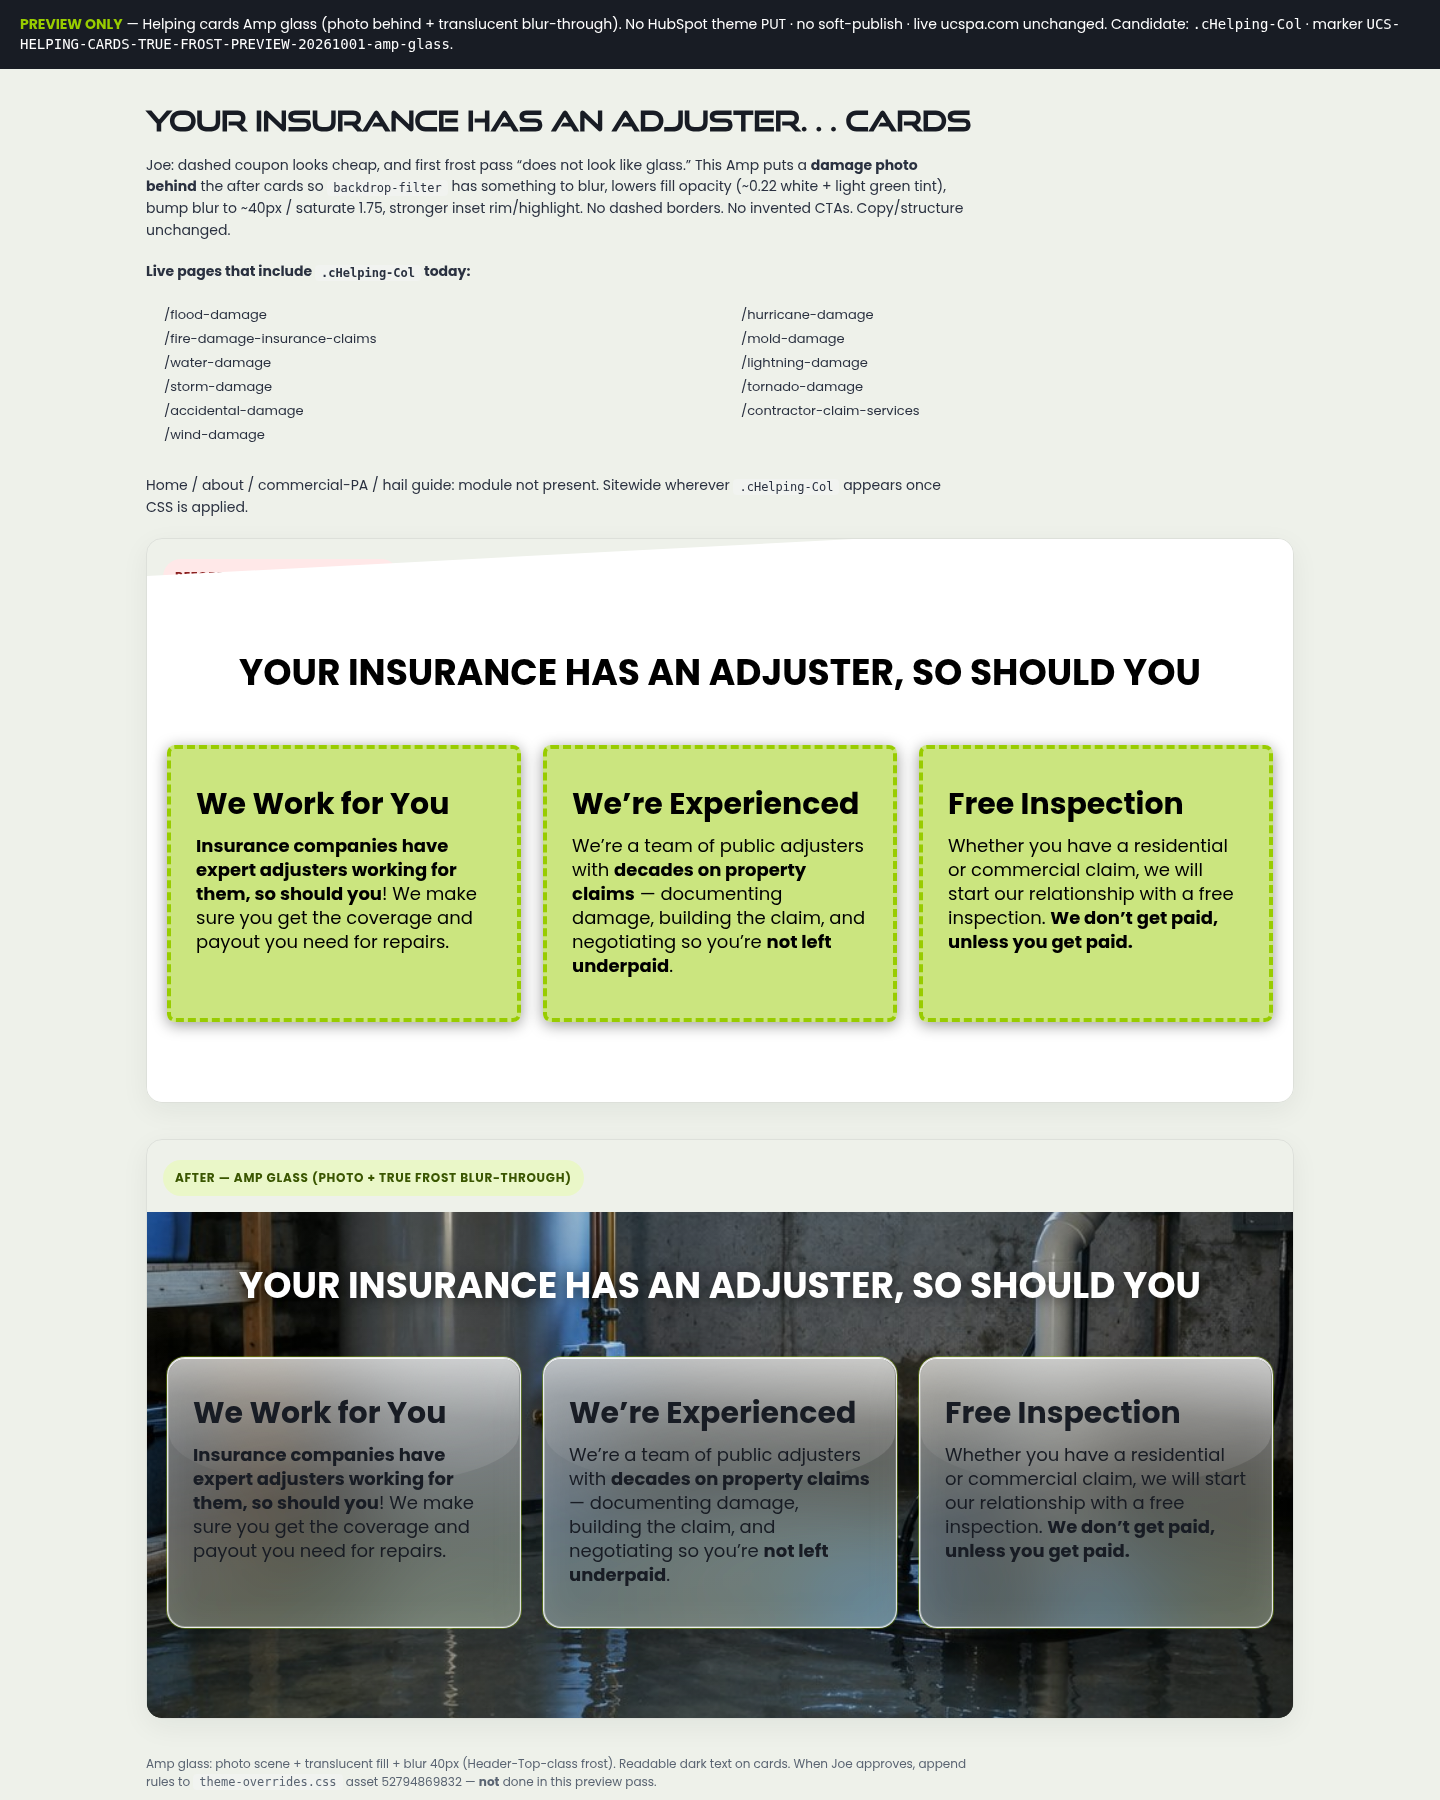
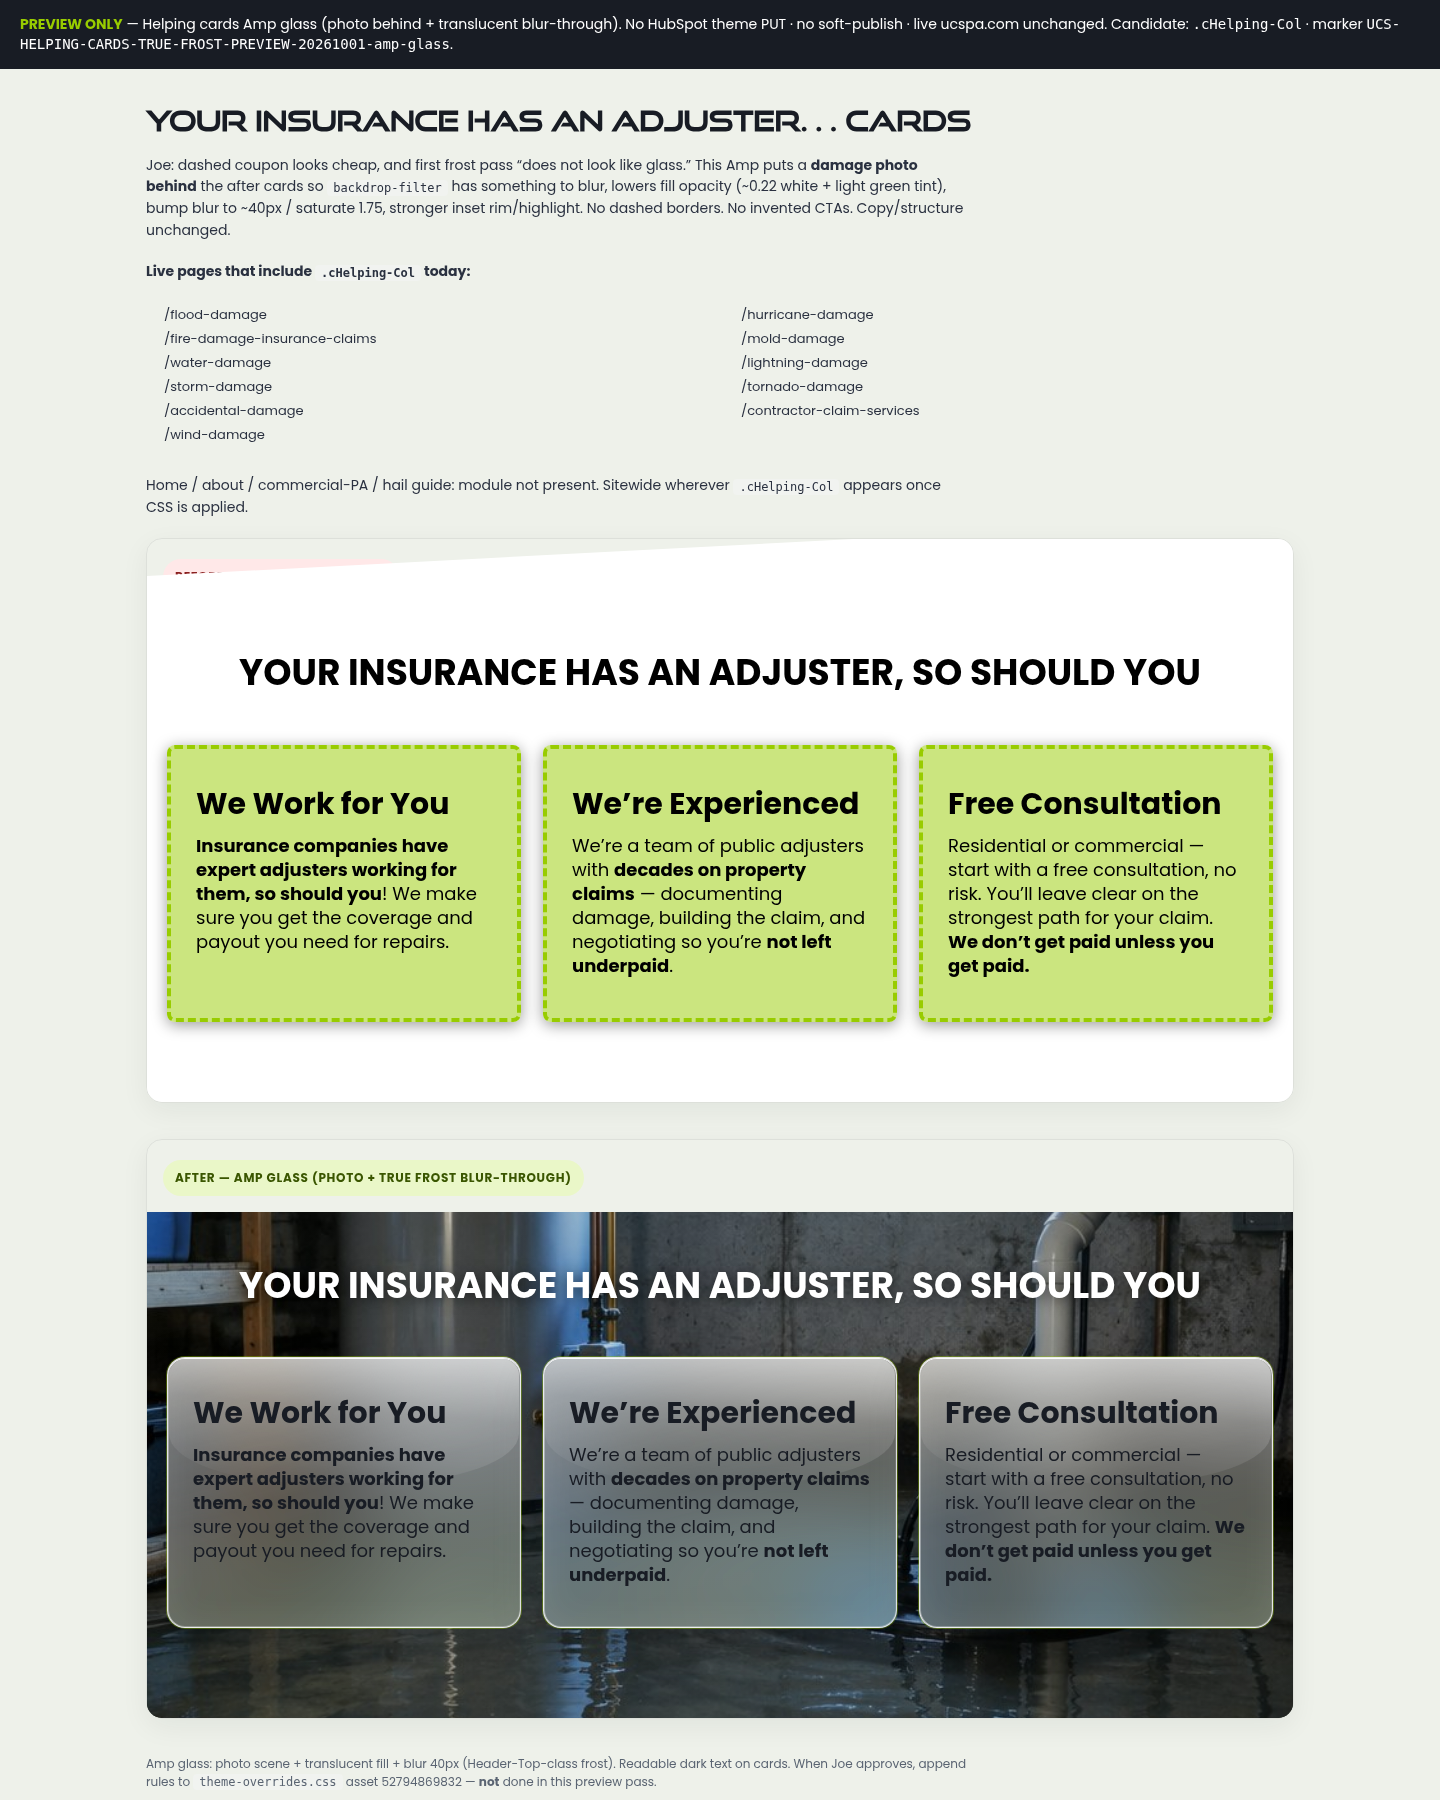
Finalize helping cards preview copy

Changed region(s): [[0.6562, 0.4356, 0.875, 0.56], [0.6562, 0.7778, 0.8438, 0.9022]]

diff --git a/helping-cards-frost/index.html b/helping-cards-frost/index.html
@@ -13,7 +13,7 @@
 <link rel="stylesheet" href="https://7052064.fs1.hubspotusercontent-na1.net/hubfs/7052064/hub_generated/template_assets/DEFAULT_ASSET/1790670504241/template_layout.min.css" />
 <link rel="stylesheet" href="https://www.ucspa.com/hubfs/hub_generated/template_assets/1/52790806616/1790446814380/template_main.min.css" />
 <link rel="stylesheet" href="https://www.ucspa.com/hubfs/hub_generated/template_assets/1/52794869832/1790819786203/template_theme-overrides.min.css" />
-<link rel="stylesheet" href="assets/css/helping-frost.css?v=202610010527-experienced-copy-no-exclaim-amp-glass" />
+<link rel="stylesheet" href="assets/css/helping-frost.css?v=202610010528-free-consultation-no-exclaim-amp-glass" />
 <style>
   body { margin:0; background:#eef1ea; }
   .row-fluid { width:100%; }
@@ -77,9 +77,9 @@
                 </div>
               </div>
               <div class="cHelping-Col">
-                <h3>Free Inspection</h3>
+                <h3>Free Consultation</h3>
                 <div class="cHelping-Col-Text">
-                  <p style="font-size: 18px;"><span>Whether you have a residential or commercial claim, we will start our relationship with a free inspection.&nbsp;</span><strong>We don’t get paid, unless you get paid.</strong></p>
+                  <p style="font-size: 18px;"><span>Residential or commercial — start with a free consultation, no risk. You’ll leave clear on the strongest path for your claim. </span><strong>We don’t get paid unless you get paid.</strong></p>
                 </div>
               </div>
             </div>
@@ -112,9 +112,9 @@
                 </div>
               </div>
               <div class="cHelping-Col">
-                <h3>Free Inspection</h3>
+                <h3>Free Consultation</h3>
                 <div class="cHelping-Col-Text">
-                  <p style="font-size: 18px;"><span>Whether you have a residential or commercial claim, we will start our relationship with a free inspection.&nbsp;</span><strong>We don’t get paid, unless you get paid.</strong></p>
+                  <p style="font-size: 18px;"><span>Residential or commercial — start with a free consultation, no risk. You’ll leave clear on the strongest path for your claim. </span><strong>We don’t get paid unless you get paid.</strong></p>
                 </div>
               </div>
             </div>

diff --git a/helping-cards-frost/helping-snippet-live.html b/helping-cards-frost/helping-snippet-live.html
@@ -26,10 +26,10 @@
 				
 				<div class="cHelping-Col">
 					<h3>
-						Free Inspection
+						Free Consultation
 					</h3>
 					<div class="cHelping-Col-Text">
-						<p style="font-size: 18px;"><span>Whether you have a residential or commercial claim, we will start our relationship with a free inspection.&nbsp;</span><strong>We don’t get paid, unless you get paid.</strong></p>
+						<p style="font-size: 18px;"><span>Residential or commercial — start with a free consultation, no risk. You’ll leave clear on the strongest path for your claim. </span><strong>We don’t get paid unless you get paid.</strong></p>
 					</div>
 				</div>
 				
